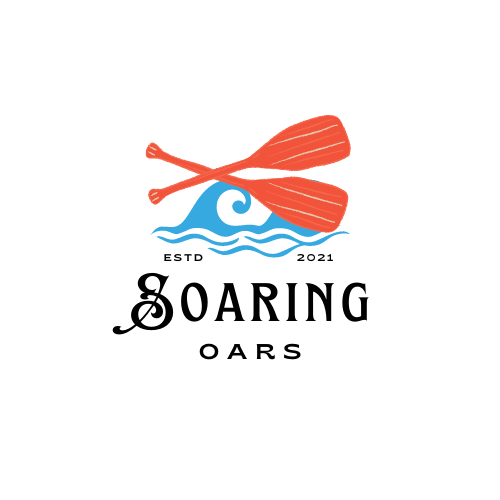
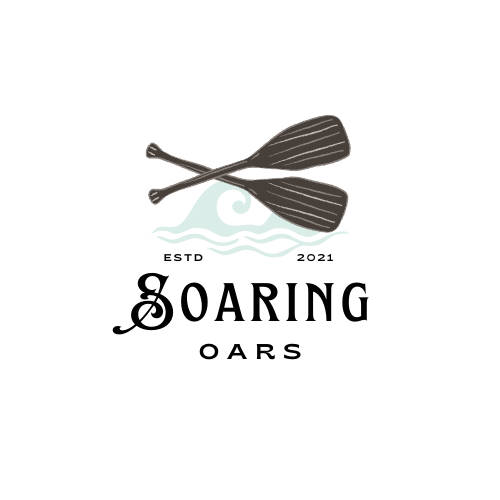
changed the style and color concept to be bearable to the eyes

Changed region(s): [[0.27, 0.21, 0.72, 0.54]]

diff --git a/wwr/styles/site-plan-rafting.css b/wwr/styles/site-plan-rafting.css
@@ -6,25 +6,25 @@ Fonts are separated by a | */
 
 :root {
   /* change the values below to your colors from your palette */
-  --primary-color: #05739E   ;
-  --secondary-color: #222e50 ;
-  --accent1-color: #ffb570;
-  --accent2-color: #ffffff;
+  --primary-color: #463f3a   ;
+  --secondary-color: #8a817c ;
+  --accent1-color: #bcb8b1;
+  --accent2-color: #f4f3ee;
 
   /* change the values below to your chosen font(s) */
   --heading-font: "Fredericka the Great";
   --paragraph-font: Newsreader, Helvetica, sans-serif;
 
   /* these colors below should be chosen from among your palette colors above */
-  --headline-color-on-white: #222E50;  /* headlines on a white background */ 
-  --headline-color-on-color: #222E50; /* headlines on a colored background */ 
-  --paragraph-color-on-white: #FFB570; /* paragraph text on a white background */ 
-  --paragraph-color-on-color: #ffffff; /* paragraph text on a colored background */ 
-  --paragraph-background-color: #05739E  ;
-  --nav-link-color: #ffffff;
-  --nav-background-color: #05739E;
-  --nav-hover-link-color: #ffffff;
-  --nav-hover-background-color: #222E50;
+  --headline-color-on-white: #463f3a;  /* headlines on a white background */ 
+  --headline-color-on-color: #463f3a; /* headlines on a colored background */ 
+  --paragraph-color-on-white: #8a817c; /* paragraph text on a white background */ 
+  --paragraph-color-on-color: #f4f3ee; /* paragraph text on a colored background */ 
+  --paragraph-background-color: #8a817c  ;
+  --nav-link-color: #f4f3ee;
+  --nav-background-color: #8a817c;
+  --nav-hover-link-color: #f4f3ee;
+  --nav-hover-background-color: #463f3a;
 }
 
 

diff --git a/wwr/site-plan-rafting.html b/wwr/site-plan-rafting.html
@@ -49,8 +49,8 @@
 
     <!-- Copy and paste the URL to your finished palette below. Replace the href value that is there with yours. Make sure to paste it into both the href value and the content text of the <a> tag -->
     <p>Palette URL:</p>
-    <a href="https://coolors.co/05739e-de3c4b-222e50-ffb570-ffffff"
-      target="_blank">https://coolors.co/05739e-de3c4b-222e50-ffb570-ffffff</a>
+    <a href="https://coolors.co/palette/463f3a-8a817c-bcb8b1-f4f3ee-e0afa0"
+      target="_blank">https://coolors.co/palette/463f3a-8a817c-bcb8b1-f4f3ee-e0afa0</a>
 
     <table class="colors">
       <tr>
@@ -61,10 +61,10 @@
       </tr>
       <!-- Replace the numbers in the boxes below with your hex color codes. Then switch to the site-plan.css file and change your colors there as well. -->
       <tr>
-        <td class="primary">[#05739e]</td>
-        <td class="secondary">[#222e50]</td>
-        <td class="accent1">[#ffB570]</td>
-        <td class="accent2">[#ffffff]</td>
+        <td class="primary">[#463f3a]</td>
+        <td class="secondary">[#8a817c]</td>
+        <td class="accent1">[#bcb8b1]</td>
+        <td class="accent2">[#f4f3ee]</td>
       </tr>
     </table>
 
